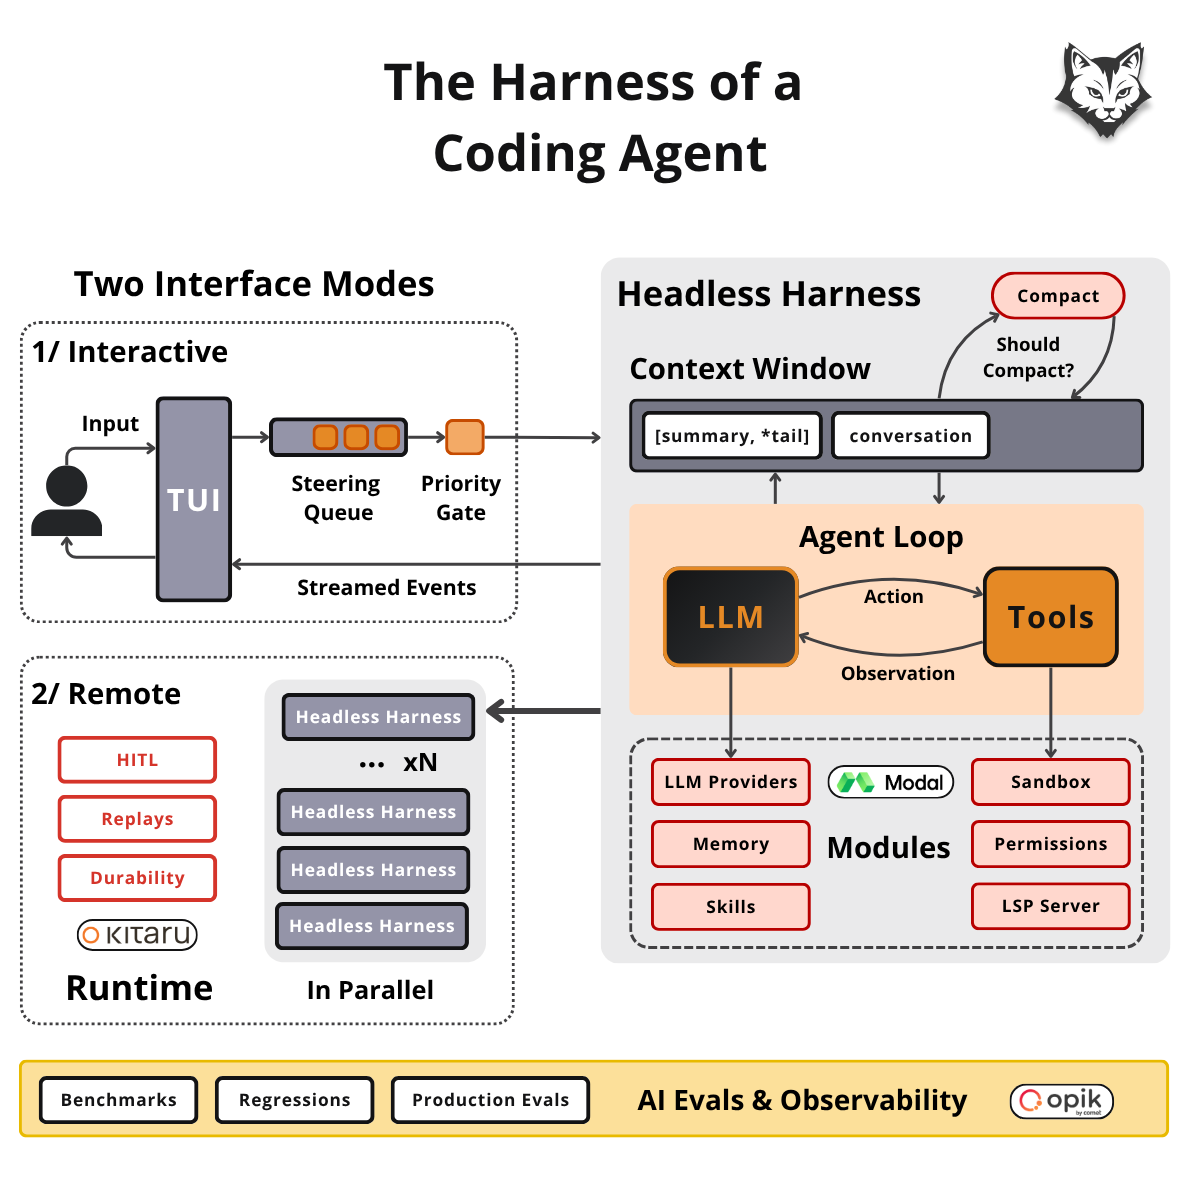
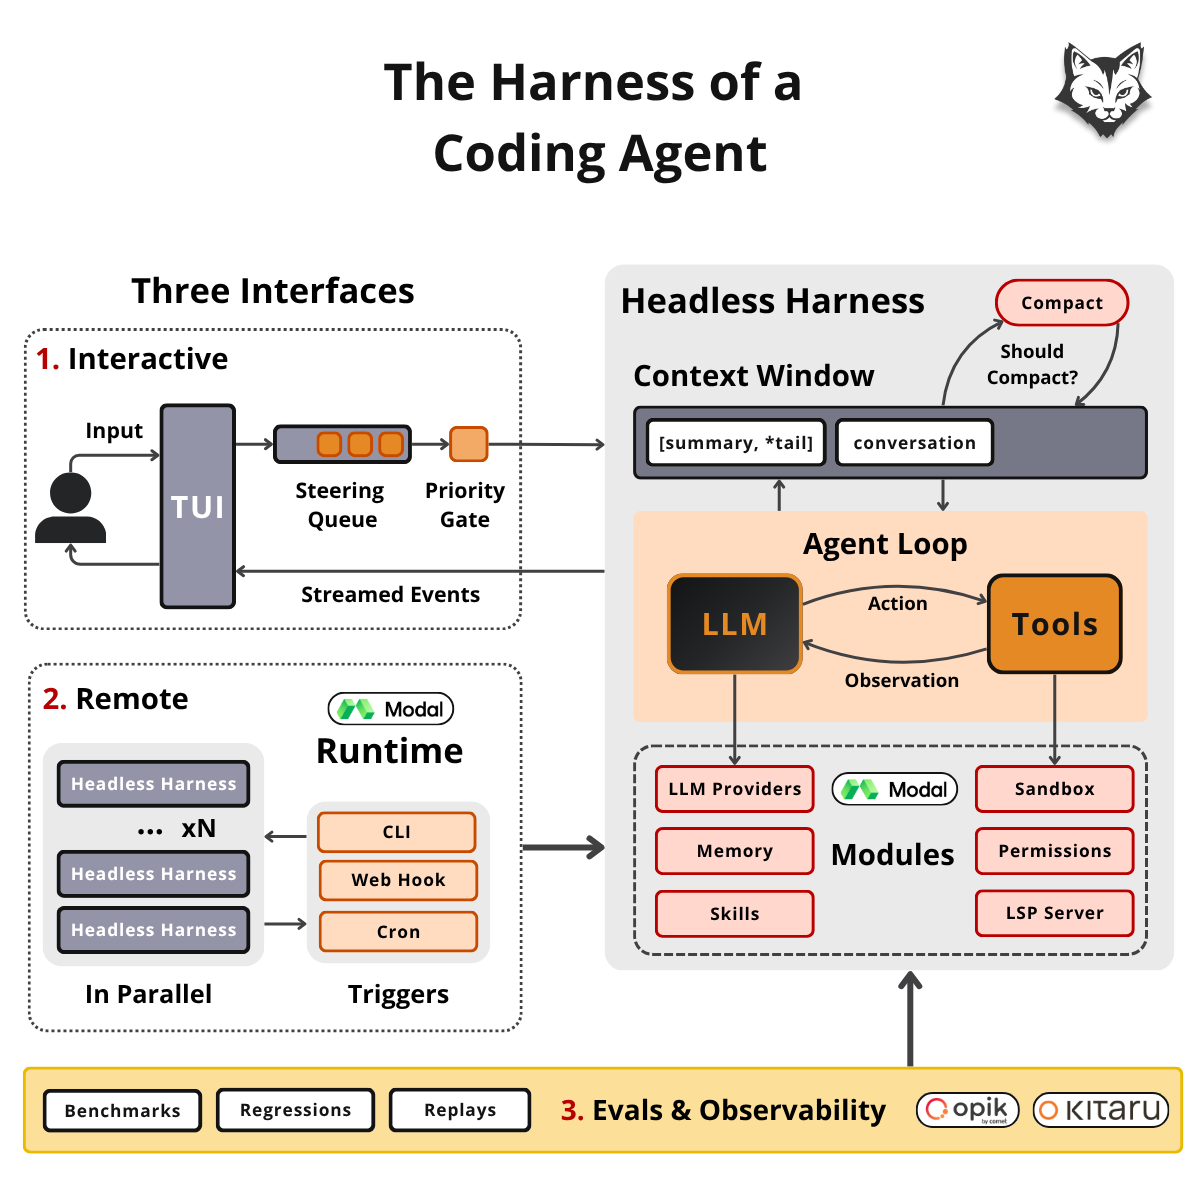
docs: Update docs

Changed region(s): [[0.0, 0.2158, 0.9867, 0.9867], [0.4317, 0.6783, 0.4933, 0.7092]]

diff --git a/README.md b/README.md
@@ -62,12 +62,12 @@ That's the _entire_ tool-calling agent. Everything else in this repo: the tools,
   <i>A fresh session powered by Qwen 3.6 35B hosted on Modal</i>
 </p>
 
-We spent months under the hood of Claude Code (via its leaked source), [OpenCode](https://github.com/anomalyco/opencode), [Pi](https://github.com/earendil-works/pi), and [Aider](https://github.com/aider-ai/aider), then distilled it into 8 articles and 4 videos where you'll build **decode**, your own coding agent, from scratch. One headless core hooked to two modes: an interactive TUI and a remote runtime running N copies in parallel.
+We spent months under the hood of Claude Code (via its leaked source), [OpenCode](https://github.com/anomalyco/opencode), [Pi](https://github.com/earendil-works/pi), and [Aider](https://github.com/aider-ai/aider), then distilled it into 8 articles and 4 videos where you'll build **decode**, your own coding agent, from scratch. One headless core hooked to two modes: an interactive TUI and Modal serverless functions running N copies in parallel, fired by CLI, webhook, or cron.
 
 <p align="center">
-  <img src="assets/architecture.png" alt="decode architecture" width="620">
+  <img src="assets/architecture.png" alt="Diagram of a coding agent harness: two interfaces (Interactive TUI with steering queue and priority gate; Remote Modal runtime running N headless harnesses via CLI, webhook, or cron) drive one Headless Harness made of a Context Window with compaction, an LLM-to-Tools Agent Loop, and six modules (LLM Providers, Memory, Skills, Sandbox, Permissions, LSP Server). An Evals and Observability layer (benchmarks, regressions, replays via Opik and Kitaru) sits underneath." width="620">
 </p>
-<p align="center"><i>Two interface modes on the left, the headless harness on the right, the evals plane underneath.</i></p>
+<p align="center"><i>The architecture of the harness of the coding agent you will build during this course.</i></p>
 
 ## 🎮 See It Work
 
@@ -132,7 +132,8 @@ The finished agent ships with demo skills under [`.decode/skills/`](.decode/skil
 - Design a coding agent harness from scratch
 - Implement a headless coding agent loop
 - Attach the headless harness to multiple modes: TUI and remote
-- Add a runtime that records every run and replays it with the model swapped — including N parallel remote attempts at one task
+- Deploy the headless harness on Modal and fire N parallel attempts at one task from the CLI, a webhook, or a cron job
+- Record every run with Kitaru and replay it with the model or prompt swapped, tool outputs served from the recording, against the original as baseline
 - Implement guardrails and safety nets for the agent's behavior by adding a permission layer and local & remote sandboxing
 - Build essential context engineering techniques: memory, compaction, skills
 - Hook up an LSP server for faster feedback loops
@@ -140,7 +141,6 @@ The finished agent ships with demo skills under [`.decode/skills/`](.decode/skil
 - Spawn parallel subagents via fan-out strategies
 - Add observability
 - Design an eval harness for benchmarking the agent and checking for regressions
-- Deploy and run swarms of agents
 
 <p align="center">
   <img src="assets/tui-plan-mode-todo.png" alt="decode in plan mode breaking the Snake demo into a task list with the todo tool" width="800">
@@ -156,7 +156,7 @@ The code is written in Python, with the following frameworks and libraries:
 - **Session Recording & Replays:** [Kitaru](https://www.zenml.io/product/kitaru?utm_source=decodingai&utm_medium=referral&utm_campaign=coding-agent-course&utm_content=brand)
 - **Observability & Evals:** [Opik](https://www.comet.com/site/?utm_source=workshop&utm_medium=partner&utm_campaign=paul&utm_content=coding_agent_course)
 - **Sandboxing:** local Docker & remote [Modal sandboxes](https://modal.com/docs/guide/sandboxes?source=decodingai&campaign=harnesseng)
-- **Deploying:** Modal — headless agents (fired by hand, by cron, or by webhook) + the Kitaru Worker run there, no servers to keep up
+- **Deploying:** [Modal](https://modal.com/?source=decodingai&campaign=harnesseng) as headless agents (fired by hand, by cron, or by webhook)
 
 Otherwise, we build all the functionality from scratch, to teach you the foundations that last, not frameworks that abstract away the hard parts.
 
@@ -211,10 +211,10 @@ For the full experience, go through the articles and videos that cover what the 
     <td align="center"><a href="running_the_code/01_install_and_usage.md">01_install_and_usage.md</a> · <a href="running_the_code/02_modal_endpoints.md">02_modal_endpoints.md</a> · <a href="running_the_code/03_sandboxing.md">03_sandboxing.md</a></td>
   </tr>
   <tr>
-    <td align="center"><b>6</b><br/>Remote Headless Mode, Recording & Replays</td>
-    <td align="center">📄 <i>Coming soon</i></td>
+    <td align="center"><b>6</b><br/>Deploy a Headless Coding Agent Harness to Modal</td>
+    <td align="center"><a href="https://www.decodingai.com/p/coding-agents-in-remote-headless" target="_blank"><img src="assets/architecture_lesson_6.png" width="300" alt="Lesson 6 — swarm of remote agents"/></a><br/><i><a href="https://www.decodingai.com/p/coding-agents-in-remote-headless" target="_blank">Article 6</a></i></td>
     <td align="center">🎬 <i>Video 3 — coming soon</i></td>
-    <td align="center"><a href="running_the_code/01_install_and_usage.md">01_install_and_usage.md</a> · <a href="running_the_code/02_modal_endpoints.md">02_modal_endpoints.md</a> · <a href="running_the_code/03_sandboxing.md">03_sandboxing.md</a> · <a href="running_the_code/04_deploy.md">04_deploy.md</a> · <a href="running_the_code/06_evals_replays.md">06_evals_replays.md</a> · <a href="running_the_code/07_evals_replays_deploy.md">07_evals_replays_deploy.md</a></td>
+    <td align="center"><a href="running_the_code/01_install_and_usage.md">01_install_and_usage.md</a> · <a href="running_the_code/02_modal_endpoints.md">02_modal_endpoints.md</a> · <a href="running_the_code/03_sandboxing.md">03_sandboxing.md</a> · <a href="running_the_code/04_deploy.md">04_deploy.md</a></td>
   </tr>
   <tr>
     <td align="center"><b>7</b><br/>AI Evals Foundations: Benchmarks, Regression and Online</td>
@@ -283,6 +283,7 @@ One Python package; each module maps to one part of the architecture:
 │   ├── adr/                  # Architecture Decision Records — the "why" of every choice
 │   └── glossary.md           # one canonical name per concept
 ├── evals/                    # benchmark tasks + regression cases + the Opik harness
+├── scripts/                  # operator scripts: Kitaru bootstrap + the Modal-hosted Kitaru Worker
 ├── tests/{unit,integration}/ # mirrors src/ 1:1; milestone capstones prove each milestone
 └── src/decode/
     ├── cli.py                # Click entrypoint → launches the TUI
@@ -295,6 +296,7 @@ One Python package; each module maps to one part of the architecture:
     ├── sandbox/              # bash + file tools seam: none (host) / docker / modal
     ├── services/lsp/         # hand-rolled stdio LSP client (ty)
     ├── runtime/              # plain headless decode run + the Recording Seam
+    ├── remote/               # decode remote deploy|run|attempts|logs — the Modal Headless App (CLI, webhook, cron)
     ├── context/              # compaction + conversation log (JSONL)
     ├── memory/               # AGENTS.md / MEMORY.md loading + write-back
     ├── observability/        # Opik tracing
